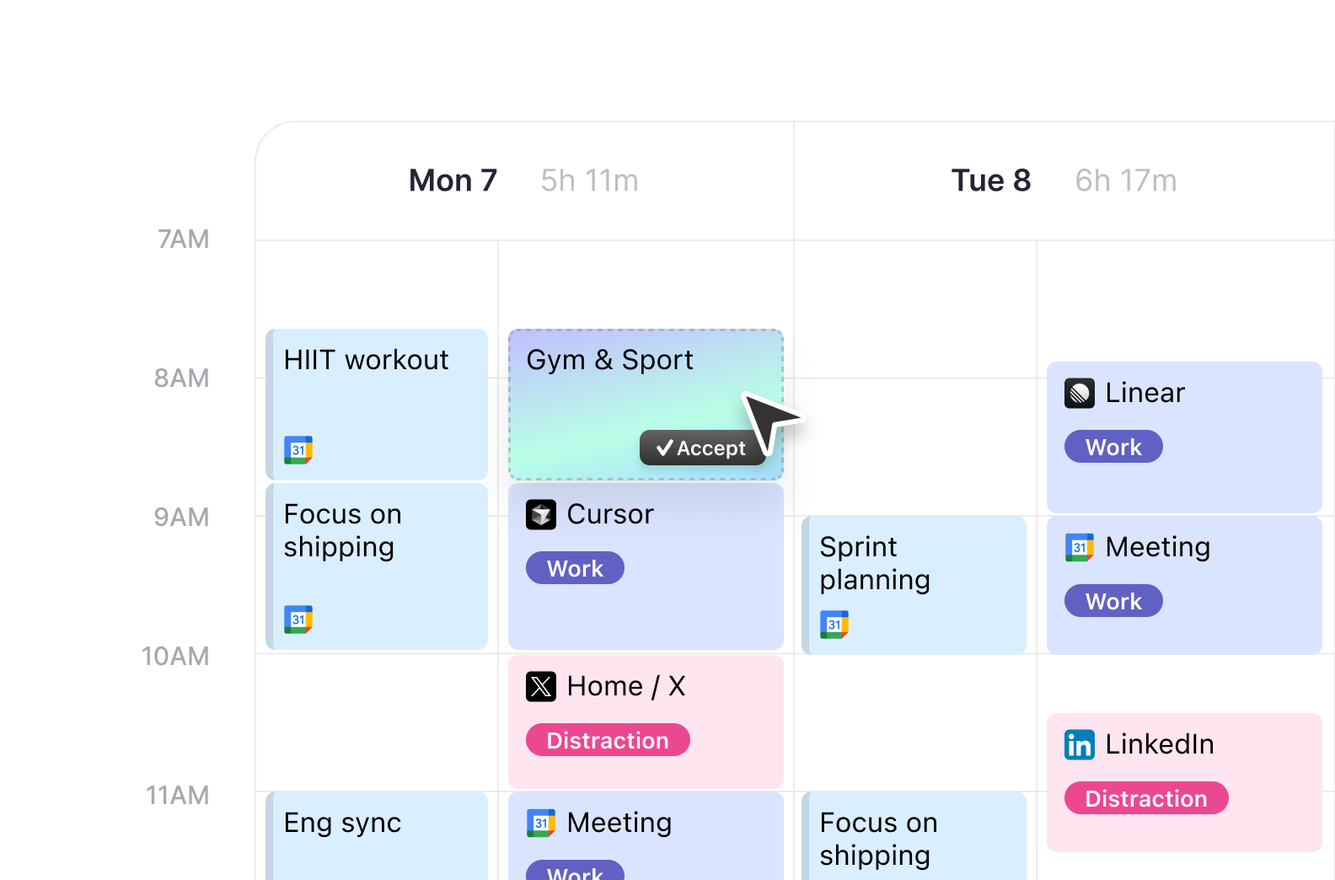
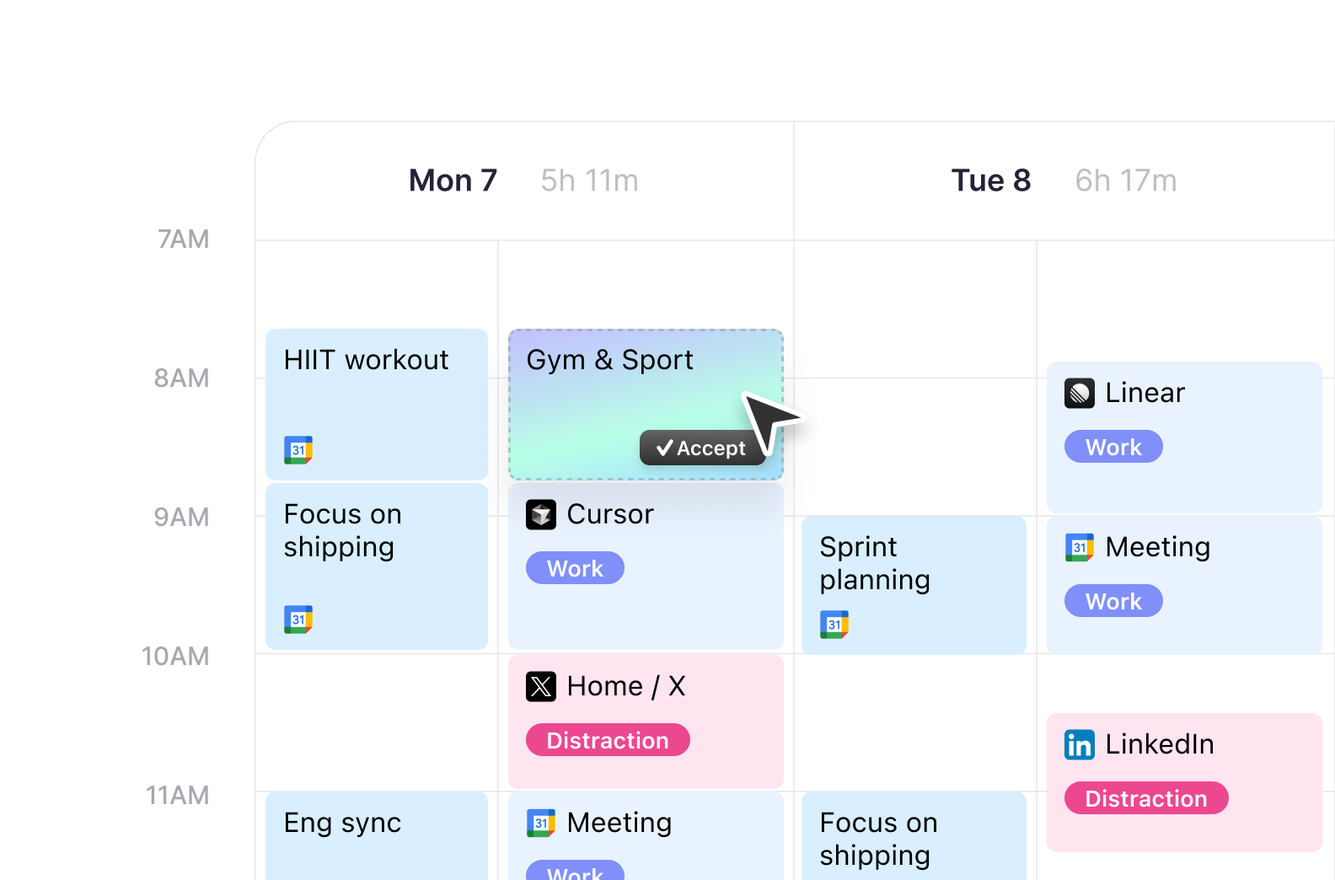
style: update colors in showcase and time frames, adjust layout in features section

diff --git a/nextjs-client/modules/home/showcase-section/apps-frame.tsx b/nextjs-client/modules/home/showcase-section/apps-frame.tsx
@@ -41,7 +41,7 @@ export const AppsFrame = (props: React.SVGProps<SVGSVGElement>) => (
         d="M96.08 22.5h-1.057a2.196 2.196 0 0 0-.89-1.38 2.385 2.385 0 0 0-.73-.359 2.908 2.908 0 0 0-.835-.119c-.528 0-1.007.134-1.436.4-.426.268-.766.661-1.018 1.181-.25.52-.375 1.158-.375 1.913 0 .756.125 1.394.375 1.914.252.52.592.913 1.018 1.18.43.267.908.4 1.436.4.29 0 .568-.04.835-.119.267-.08.51-.197.73-.353a2.245 2.245 0 0 0 .89-1.385h1.056a3.52 3.52 0 0 1-.434 1.197 3.273 3.273 0 0 1-1.837 1.458c-.386.127-.8.191-1.24.191-.744 0-1.406-.181-1.986-.545-.58-.364-1.035-.88-1.367-1.551-.333-.67-.5-1.466-.5-2.387 0-.92.167-1.715.5-2.386.332-.67.788-1.188 1.367-1.551.58-.364 1.242-.546 1.986-.546.44 0 .854.064 1.24.192.39.128.74.316 1.053.563.312.244.574.542.784.895.21.349.355.748.434 1.197zm5.696 3.324v-3.87h1.006V28.5h-1.006v-1.108h-.068a2.152 2.152 0 0 1-.716.848c-.324.23-.733.345-1.227.345-.41 0-.773-.09-1.091-.268a1.88 1.88 0 0 1-.75-.818c-.182-.367-.273-.828-.273-1.385v-4.16h1.006v4.091c0 .478.133.858.4 1.142.27.285.614.427 1.031.427.25 0 .505-.064.763-.192.262-.128.48-.324.656-.588.179-.264.269-.601.269-1.01zm2.848 2.676v-6.546h.971v.99h.068c.12-.325.336-.587.648-.79a1.908 1.908 0 0 1 1.057-.302c.074 0 .166.002.277.005a3.7 3.7 0 0 1 .251.012v1.023a2.968 2.968 0 0 0-.234-.038 2.304 2.304 0 0 0-.379-.03c-.319 0-.603.067-.853.2a1.47 1.47 0 0 0-.801 1.334V28.5h-1.005zm9.101-5.08l-.904.256a1.65 1.65 0 0 0-.251-.439 1.223 1.223 0 0 0-.443-.358c-.188-.094-.428-.14-.72-.14-.401 0-.735.092-1.002.277-.264.181-.396.413-.396.694 0 .25.091.448.273.593.181.144.466.265.852.362l.971.238c.586.143 1.022.36 1.309.652.287.29.43.664.43 1.121 0 .375-.108.71-.324 1.006a2.145 2.145 0 0 1-.895.699c-.383.17-.829.255-1.338.255-.667 0-1.22-.145-1.657-.434-.438-.29-.715-.713-.831-1.27l.954-.239c.091.352.263.617.516.793.256.176.589.264 1.001.264.469 0 .841-.1 1.117-.298.278-.202.417-.444.417-.725a.761.761 0 0 0-.238-.57c-.159-.157-.404-.273-.733-.35l-1.091-.256c-.6-.142-1.04-.362-1.321-.66-.279-.301-.418-.678-.418-1.13 0-.369.104-.696.311-.98.211-.284.496-.507.857-.669a3.004 3.004 0 0 1 1.236-.243c.647 0 1.156.142 1.525.427.372.284.637.659.793 1.125zm4.292 5.216c-.591 0-1.109-.14-1.555-.421a2.861 2.861 0 0 1-1.04-1.18c-.247-.507-.371-1.098-.371-1.774 0-.681.124-1.277.371-1.785.25-.509.596-.904 1.04-1.185.446-.281.964-.422 1.555-.422s1.108.14 1.551.422a2.82 2.82 0 0 1 1.04 1.185c.25.508.375 1.104.375 1.785 0 .677-.125 1.267-.375 1.773-.247.506-.594.9-1.04 1.18-.443.282-.96.422-1.551.422zm0-.903c.449 0 .818-.115 1.108-.345.29-.23.504-.533.643-.908.14-.375.209-.781.209-1.219 0-.437-.069-.845-.209-1.223a2.056 2.056 0 0 0-.643-.916c-.29-.233-.659-.35-1.108-.35-.449 0-.818.117-1.108.35-.29.233-.504.538-.643.916-.14.378-.209.786-.209 1.223 0 .438.069.844.209 1.22.139.374.353.677.643.907.29.23.659.345 1.108.345zm4.501.767v-6.546h.972v.99h.068c.119-.325.335-.587.648-.79a1.903 1.903 0 0 1 1.056-.302c.074 0 .167.002.277.005.111.002.195.007.252.012v1.023a2.938 2.938 0 0 0-.235-.038 2.295 2.295 0 0 0-.379-.03 1.78 1.78 0 0 0-.852.2 1.47 1.47 0 0 0-.801 1.334V28.5h-1.006zM258.852 28.62c-.562 0-1.064-.097-1.504-.29a2.582 2.582 0 0 1-1.044-.806 2.165 2.165 0 0 1-.418-1.206h1.074c.023.281.12.524.29.729.17.202.393.358.669.469.276.11.581.166.916.166.375 0 .708-.066.997-.196.29-.13.517-.313.682-.546.165-.233.247-.503.247-.81a1.52 1.52 0 0 0-.238-.847 1.579 1.579 0 0 0-.699-.58c-.307-.14-.682-.209-1.125-.209H258v-.937h.699c.346 0 .65-.063.912-.188.264-.125.47-.3.618-.528.15-.227.226-.494.226-.801 0-.296-.066-.553-.196-.771a1.347 1.347 0 0 0-.554-.512 1.796 1.796 0 0 0-.836-.183 2.2 2.2 0 0 0-.852.166c-.264.108-.48.266-.648.473a1.233 1.233 0 0 0-.272.741h-1.023c.017-.457.155-.857.413-1.201a2.61 2.61 0 0 1 1.014-.81c.421-.193.883-.29 1.385-.29.54 0 1.003.11 1.39.329.386.215.683.501.89.856.208.355.311.739.311 1.15 0 .492-.129.911-.388 1.258a1.96 1.96 0 0 1-1.044.72v.068c.552.091.982.325 1.292.703.309.375.464.84.464 1.394 0 .474-.129.9-.388 1.278a2.63 2.63 0 0 1-1.048.887c-.443.215-.947.323-1.513.323zm5.715-4.058V28.5h-1.006v-8.727h1.006v3.204h.085c.153-.338.384-.606.69-.805.31-.202.722-.303 1.236-.303.446 0 .837.09 1.172.269.335.176.595.447.78.814.187.363.281.826.281 1.389V28.5h-1.006v-4.09c0-.52-.135-.923-.404-1.207-.267-.287-.638-.43-1.113-.43-.329 0-.625.07-.886.209-.259.139-.463.342-.614.609-.147.267-.221.59-.221.971zm9.442 3.938v-.767l2.881-3.154c.338-.369.616-.69.835-.963.219-.275.38-.534.486-.775.108-.244.162-.5.162-.767 0-.307-.074-.573-.222-.797a1.439 1.439 0 0 0-.597-.52 1.934 1.934 0 0 0-.852-.183c-.335 0-.628.07-.878.209a1.435 1.435 0 0 0-.575.575c-.134.247-.2.537-.2.87h-1.006c0-.512.118-.961.354-1.347.235-.387.556-.688.963-.904a2.903 2.903 0 0 1 1.376-.324c.512 0 .965.108 1.36.324.394.216.704.507.929.874.224.366.336.774.336 1.223 0 .32-.058.635-.175.942-.113.304-.312.643-.596 1.018-.281.372-.672.827-1.172 1.364l-1.96 2.096v.069h4.057v.937h-5.506zm10.163.12a3.267 3.267 0 0 1-1.074-.205 2.576 2.576 0 0 1-.98-.66c-.295-.313-.532-.735-.711-1.266-.179-.535-.269-1.205-.269-2.012 0-.773.073-1.457.217-2.054.145-.6.356-1.103.631-1.512.276-.412.608-.725.997-.938a2.73 2.73 0 0 1 1.326-.32c.488 0 .923.098 1.304.294.383.194.696.463.937.81.242.347.398.746.469 1.197h-1.04a1.933 1.933 0 0 0-.562-.975c-.279-.259-.648-.388-1.108-.388-.677 0-1.209.294-1.598.882-.387.588-.581 1.413-.584 2.476h.068a2.557 2.557 0 0 1 2.148-1.16c.5 0 .957.126 1.372.376.415.247.747.59.997 1.027.25.434.375.933.375 1.495 0 .54-.121 1.035-.362 1.483a2.76 2.76 0 0 1-1.019 1.066c-.434.261-.946.389-1.534.383zm0-.938c.358 0 .679-.09.963-.269.287-.179.513-.419.678-.72.167-.301.251-.636.251-1.006 0-.36-.081-.688-.243-.984a1.852 1.852 0 0 0-.66-.712 1.75 1.75 0 0 0-.955-.264c-.27 0-.521.054-.754.162-.233.105-.437.25-.614.435a2.115 2.115 0 0 0-.409.635 2.02 2.02 0 0 0 .767 2.446c.287.184.613.277.976.277zm4.608.818v-6.546h.971v1.023h.086c.136-.35.356-.62.66-.814.304-.196.669-.294 1.095-.294.432 0 .792.098 1.078.294.29.194.516.465.678.814h.068a1.91 1.91 0 0 1 .754-.805c.336-.202.738-.303 1.206-.303.586 0 1.064.184 1.436.55.373.364.559.93.559 1.7V28.5h-1.006v-4.38c0-.484-.132-.829-.396-1.036a1.468 1.468 0 0 0-.933-.311c-.461 0-.817.139-1.07.417-.253.276-.379.625-.379 1.049V28.5h-1.023v-4.483c0-.372-.121-.672-.362-.9-.242-.23-.553-.344-.934-.344-.261 0-.505.07-.732.209-.225.139-.407.332-.546.58a1.715 1.715 0 0 0-.204.847V28.5h-1.006z"
         fill="#242437"
       />
-      <rect x={64} y={36} width={157} height={5} rx={2.5} fill="#6161C3" />
+      <rect x={64} y={36} width={157} height={5} rx={2.5} fill="#57A3FF" />
       <path
         d="M56 57a4 4 0 0 1 4-4h243a4 4 0 0 1 4 4v33a4 4 0 0 1-4 4H60a4 4 0 0 1-4-4V57z"
         fill="#fff"
@@ -57,7 +57,7 @@ export const AppsFrame = (props: React.SVGProps<SVGSVGElement>) => (
         d="M89.057 73.5v-8.727h2.949c.681 0 1.241.116 1.679.35.437.23.761.546.971.95.21.403.316.862.316 1.376 0 .514-.105.97-.316 1.368-.21.398-.532.71-.967.937-.435.225-.99.337-1.666.337h-2.387v-.955h2.353c.465 0 .84-.068 1.125-.204.287-.136.494-.33.622-.58.13-.253.196-.554.196-.903 0-.35-.066-.655-.196-.916a1.336 1.336 0 0 0-.627-.605c-.287-.145-.666-.218-1.137-.218h-1.858v7.79h-1.057zm4.108-3.92l2.147 3.92h-1.227l-2.113-3.92h1.193zm6.105 4.056c-.63 0-1.174-.139-1.632-.417a2.803 2.803 0 0 1-1.052-1.176c-.245-.506-.367-1.094-.367-1.765 0-.67.122-1.261.367-1.772a2.89 2.89 0 0 1 1.03-1.202c.444-.29.961-.435 1.552-.435.34 0 .677.057 1.01.17.332.114.635.3.908.555.272.253.49.588.652 1.005.162.418.242.932.242 1.543v.426h-5.045v-.87h4.023c0-.368-.074-.698-.222-.988a1.67 1.67 0 0 0-.622-.686 1.743 1.743 0 0 0-.946-.251c-.4 0-.747.1-1.04.298-.29.196-.513.452-.669.767a2.253 2.253 0 0 0-.234 1.014v.58c0 .494.085.913.256 1.257.173.34.413.6.72.78.306.176.663.264 1.07.264.263 0 .502-.037.715-.11a1.53 1.53 0 0 0 .558-.342 1.55 1.55 0 0 0 .363-.57l.971.272c-.102.33-.274.62-.515.87a2.52 2.52 0 0 1-.895.579 3.32 3.32 0 0 1-1.198.204zm7.99-4.346v.937h-3.818v-.937h3.818zm4.429 4.346c-.614 0-1.142-.144-1.585-.434a2.837 2.837 0 0 1-1.023-1.198c-.239-.508-.358-1.09-.358-1.743 0-.664.122-1.251.366-1.76a2.9 2.9 0 0 1 1.032-1.197c.443-.29.96-.435 1.551-.435.46 0 .875.085 1.244.256.37.17.672.41.908.716.236.307.382.665.439 1.074h-1.006a1.562 1.562 0 0 0-.511-.793c-.262-.233-.614-.35-1.057-.35-.392 0-.736.103-1.031.307a1.99 1.99 0 0 0-.686.857c-.162.367-.243.797-.243 1.291 0 .506.079.946.238 1.321.162.375.39.666.682.874.296.207.642.311 1.04.311.261 0 .499-.046.712-.136a1.47 1.47 0 0 0 .541-.392c.147-.17.253-.376.315-.614h1.006a2.336 2.336 0 0 1-.422 1.044 2.363 2.363 0 0 1-.882.733c-.364.179-.787.268-1.27.268zm5.97.017c-.415 0-.791-.078-1.129-.234a1.941 1.941 0 0 1-.806-.686c-.198-.301-.298-.665-.298-1.091 0-.375.074-.679.222-.912a1.56 1.56 0 0 1 .592-.554c.247-.133.52-.233.818-.298.301-.068.604-.122.908-.162.398-.051.72-.09.967-.115.25-.029.432-.075.546-.14.116-.066.174-.18.174-.342v-.034c0-.42-.115-.747-.345-.98-.227-.233-.572-.35-1.035-.35-.48 0-.857.106-1.13.316-.272.21-.464.435-.575.673l-.954-.34c.17-.398.397-.708.681-.93.287-.224.6-.38.938-.468.341-.091.676-.137 1.006-.137.21 0 .451.026.724.077.276.048.541.15.797.303.258.153.473.385.643.694.171.31.256.725.256 1.245V73.5h-1.006v-.886h-.051a1.768 1.768 0 0 1-.341.456c-.159.162-.37.3-.635.413-.264.114-.586.17-.967.17zm.153-.903c.398 0 .733-.078 1.006-.234a1.59 1.59 0 0 0 .835-1.385v-.92c-.042.05-.136.097-.281.14-.142.04-.307.075-.494.106a22.717 22.717 0 0 1-.963.128c-.262.034-.506.09-.733.166a1.267 1.267 0 0 0-.546.337c-.136.148-.204.35-.204.605 0 .35.129.614.388.793.261.176.592.264.992.264zm7.529-5.796v.853h-3.392v-.853h3.392zm-2.403-1.568h1.006v6.239c0 .284.041.497.123.64.085.138.193.232.324.28.134.046.274.069.422.069.111 0 .202-.006.273-.017l.17-.034.205.903a2.096 2.096 0 0 1-.286.077 2.1 2.1 0 0 1-.464.042c-.285 0-.563-.06-.836-.183a1.658 1.658 0 0 1-.673-.558c-.176-.25-.264-.566-.264-.946v-6.512zm6.59 8.25c-.631 0-1.175-.139-1.632-.417a2.807 2.807 0 0 1-1.053-1.176c-.244-.506-.366-1.094-.366-1.765 0-.67.122-1.261.366-1.772a2.894 2.894 0 0 1 1.032-1.202c.443-.29.96-.435 1.551-.435.341 0 .677.057 1.01.17.332.114.635.3.907.555.273.253.49.588.652 1.005.162.418.243.932.243 1.543v.426h-5.045v-.87h4.023c0-.368-.074-.698-.222-.988a1.67 1.67 0 0 0-.622-.686 1.744 1.744 0 0 0-.946-.251c-.401 0-.747.1-1.04.298-.29.196-.513.452-.669.767a2.256 2.256 0 0 0-.234 1.014v.58c0 .494.085.913.255 1.257.174.34.414.6.72.78.307.176.664.264 1.07.264.264 0 .503-.037.716-.11.216-.078.402-.191.558-.342.156-.153.277-.344.362-.57l.972.272c-.102.33-.274.62-.516.87-.241.246-.539.44-.895.579a3.316 3.316 0 0 1-1.197.204zm6.882 2.455c-.486 0-.903-.063-1.253-.188a2.661 2.661 0 0 1-.873-.485 2.652 2.652 0 0 1-.55-.64l.801-.562c.091.12.206.256.345.409.14.156.33.291.571.405.245.116.564.174.959.174.529 0 .965-.127 1.308-.383.344-.256.516-.656.516-1.202v-1.33h-.085a5.34 5.34 0 0 1-.316.444 1.779 1.779 0 0 1-.579.464c-.25.134-.588.2-1.014.2a2.734 2.734 0 0 1-1.424-.374 2.63 2.63 0 0 1-.992-1.091c-.242-.478-.363-1.057-.363-1.739 0-.67.118-1.254.354-1.751.236-.5.564-.887.984-1.16.421-.275.907-.413 1.458-.413.426 0 .764.071 1.014.213.253.14.446.299.579.478.137.176.242.32.316.434h.102v-1.04h.972v6.734c0 .562-.128 1.02-.384 1.372a2.185 2.185 0 0 1-1.023.78c-.426.167-.9.25-1.423.25zm-.034-3.597c.403 0 .744-.092 1.023-.277.278-.184.49-.45.635-.796.145-.347.217-.762.217-1.245 0-.472-.071-.888-.213-1.248a1.87 1.87 0 0 0-.631-.849c-.278-.204-.622-.306-1.031-.306-.426 0-.781.108-1.065.324a1.966 1.966 0 0 0-.635.869 3.365 3.365 0 0 0-.209 1.21c0 .455.071.857.213 1.206.145.347.358.62.639.818.284.196.637.294 1.057.294zm7.364 1.142c-.591 0-1.11-.14-1.556-.421a2.866 2.866 0 0 1-1.039-1.18c-.248-.507-.371-1.097-.371-1.774 0-.681.123-1.277.371-1.785a2.86 2.86 0 0 1 1.039-1.185c.446-.281.965-.422 1.556-.422.591 0 1.108.14 1.551.422.446.281.792.676 1.04 1.185.25.508.375 1.103.375 1.785 0 .677-.125 1.267-.375 1.773-.248.506-.594.9-1.04 1.18-.443.282-.96.422-1.551.422zm0-.903c.449 0 .818-.115 1.108-.345.289-.23.504-.533.643-.908a3.48 3.48 0 0 0 .209-1.219c0-.437-.07-.845-.209-1.223a2.064 2.064 0 0 0-.643-.916c-.29-.233-.659-.35-1.108-.35-.449 0-.818.117-1.108.35-.29.233-.505.538-.644.916a3.515 3.515 0 0 0-.209 1.223c0 .438.07.844.209 1.22.139.374.354.677.644.907.29.23.659.345 1.108.345zm4.501.767v-6.546h.971v.99h.069c.119-.325.335-.588.647-.79a1.908 1.908 0 0 1 1.057-.302c.074 0 .166.002.277.004.111.003.195.008.251.013v1.023a2.968 2.968 0 0 0-.234-.038 2.304 2.304 0 0 0-.379-.03 1.78 1.78 0 0 0-.852.2c-.248.13-.444.313-.588.546-.143.23-.214.493-.214.788V73.5h-1.005zm4.465 0v-6.546h1.005V73.5h-1.005zm.511-7.636a.715.715 0 0 1-.507-.2.645.645 0 0 1-.209-.482c0-.188.07-.348.209-.482a.715.715 0 0 1 .507-.2.7.7 0 0 1 .503.2.637.637 0 0 1 .213.482.638.638 0 0 1-.213.481.7.7 0 0 1-.503.2zm2.149 7.636v-.767l3.716-4.773v-.068h-3.597v-.938h4.892v.802l-3.614 4.738v.069h3.733v.937h-5.13zm8.606.153c-.415 0-.792-.078-1.13-.234a1.939 1.939 0 0 1-.805-.686c-.199-.301-.298-.665-.298-1.091 0-.375.074-.679.221-.912.148-.236.345-.42.593-.554.247-.133.519-.233.818-.298.301-.068.603-.122.907-.162.398-.051.721-.09.968-.115.25-.029.432-.075.545-.14.117-.066.175-.18.175-.342v-.034c0-.42-.115-.747-.345-.98-.228-.233-.573-.35-1.036-.35-.48 0-.856.106-1.129.316-.273.21-.465.435-.575.673l-.955-.34c.171-.398.398-.708.682-.93.287-.224.599-.38.937-.468.341-.091.677-.137 1.006-.137.21 0 .452.026.725.077.275.048.541.15.796.303.259.153.473.385.644.694.17.31.256.725.256 1.245V73.5h-1.006v-.886h-.051a1.768 1.768 0 0 1-.341.456 1.97 1.97 0 0 1-.635.413c-.264.114-.587.17-.967.17zm.153-.903c.398 0 .733-.078 1.006-.234a1.597 1.597 0 0 0 .835-1.385v-.92c-.043.05-.136.097-.281.14-.142.04-.307.075-.495.106a22.013 22.013 0 0 1-.963.128c-.261.034-.505.09-.733.166a1.263 1.263 0 0 0-.545.337c-.136.148-.205.35-.205.605 0 .35.13.614.388.793.261.176.592.264.993.264zm7.529-5.796v.853h-3.392v-.853h3.392zm-2.404-1.568h1.006v6.239c0 .284.041.497.124.64a.64.64 0 0 0 .323.28c.134.046.275.069.422.069.111 0 .202-.006.273-.017l.171-.034.204.903a2.035 2.035 0 0 1-.285.077 2.11 2.11 0 0 1-.465.042c-.284 0-.562-.06-.835-.183a1.658 1.658 0 0 1-.673-.558c-.177-.25-.265-.566-.265-.946v-6.512zm3.917 8.114v-6.546h1.005V73.5h-1.005zm.511-7.636a.715.715 0 0 1-.507-.2.645.645 0 0 1-.209-.482c0-.188.07-.348.209-.482a.715.715 0 0 1 .507-.2.7.7 0 0 1 .503.2.637.637 0 0 1 .213.482.638.638 0 0 1-.213.481.7.7 0 0 1-.503.2zm4.995 7.772c-.591 0-1.109-.14-1.555-.421a2.868 2.868 0 0 1-1.04-1.18c-.247-.507-.371-1.097-.371-1.774 0-.681.124-1.277.371-1.785.25-.509.597-.904 1.04-1.185.446-.281.964-.422 1.555-.422s1.108.14 1.551.422a2.82 2.82 0 0 1 1.04 1.185c.25.508.375 1.103.375 1.785 0 .677-.125 1.267-.375 1.773-.247.506-.594.9-1.04 1.18-.443.282-.96.422-1.551.422zm0-.903c.449 0 .818-.115 1.108-.345.29-.23.505-.533.644-.908a3.48 3.48 0 0 0 .209-1.219c0-.437-.07-.845-.209-1.223a2.058 2.058 0 0 0-.644-.916c-.29-.233-.659-.35-1.108-.35-.449 0-.818.117-1.108.35a2.064 2.064 0 0 0-.643.916 3.515 3.515 0 0 0-.209 1.223c0 .438.07.844.209 1.22.139.374.354.677.643.907.29.23.659.345 1.108.345zm5.507-3.17V73.5h-1.006v-6.546h.972v1.023h.085c.154-.332.387-.6.699-.8.313-.205.716-.308 1.21-.308.443 0 .831.091 1.164.273.332.179.591.452.775.818.185.364.277.824.277 1.38v4.16h-1.006v-4.09c0-.515-.133-.916-.4-1.203-.267-.29-.634-.434-1.1-.434-.321 0-.607.07-.86.209-.25.139-.448.342-.593.609-.145.267-.217.59-.217.972zm12.048 4.073c-.591 0-1.109-.14-1.555-.421a2.861 2.861 0 0 1-1.04-1.18c-.247-.507-.371-1.097-.371-1.774 0-.681.124-1.277.371-1.785.25-.509.596-.904 1.04-1.185.446-.281.964-.422 1.555-.422s1.108.14 1.551.422a2.82 2.82 0 0 1 1.04 1.185c.25.508.375 1.103.375 1.785 0 .677-.125 1.267-.375 1.773-.247.506-.594.9-1.04 1.18-.443.282-.96.422-1.551.422zm0-.903c.449 0 .818-.115 1.108-.345.29-.23.504-.533.643-.908.14-.375.209-.781.209-1.219 0-.437-.069-.845-.209-1.223a2.056 2.056 0 0 0-.643-.916c-.29-.233-.659-.35-1.108-.35-.449 0-.818.117-1.108.35-.29.233-.504.538-.643.916-.14.378-.209.786-.209 1.223 0 .438.069.844.209 1.22.139.374.353.677.643.907.29.23.659.345 1.108.345zm4.501 3.221v-9h.972v1.04h.119c.074-.113.176-.258.307-.434.133-.18.324-.338.571-.478.25-.142.588-.213 1.014-.213.551 0 1.037.138 1.457.414.421.275.749.666.985 1.171.236.506.353 1.103.353 1.79 0 .694-.117 1.294-.353 1.803-.236.506-.563.898-.98 1.176a2.563 2.563 0 0 1-1.445.413c-.42 0-.757-.07-1.01-.208a1.879 1.879 0 0 1-.584-.482 6.602 6.602 0 0 1-.315-.452h-.085v3.46h-1.006zm.989-5.727c0 .495.072.93.217 1.308.145.376.357.67.635.883.278.21.619.315 1.023.315.42 0 .771-.11 1.052-.332.284-.225.497-.526.639-.904.145-.38.218-.804.218-1.27 0-.46-.071-.875-.213-1.244a1.922 1.922 0 0 0-.635-.882c-.281-.219-.635-.328-1.061-.328-.409 0-.753.103-1.032.31a1.869 1.869 0 0 0-.63.862c-.142.366-.213.794-.213 1.282zm9.17-3.273v.853h-3.392v-.853h3.392zm-2.403-1.568h1.005v6.239c0 .284.042.497.124.64.085.138.193.232.324.28.133.046.274.069.422.069.111 0 .201-.006.272-.017l.171-.034.204.903a2.035 2.035 0 0 1-.285.077 2.104 2.104 0 0 1-.465.042c-.284 0-.562-.06-.835-.183a1.658 1.658 0 0 1-.673-.558c-.176-.25-.264-.566-.264-.946v-6.512zm3.916 8.114v-6.546h1.006V73.5h-1.006zm.511-7.636a.715.715 0 0 1-.507-.2.645.645 0 0 1-.209-.482c0-.188.07-.348.209-.482a.715.715 0 0 1 .507-.2.7.7 0 0 1 .503.2.637.637 0 0 1 .213.482.638.638 0 0 1-.213.481.7.7 0 0 1-.503.2zm4.996 7.772c-.591 0-1.11-.14-1.556-.421a2.868 2.868 0 0 1-1.04-1.18c-.247-.507-.37-1.097-.37-1.774 0-.681.123-1.277.37-1.785.25-.509.597-.904 1.04-1.185.446-.281.965-.422 1.556-.422.591 0 1.108.14 1.551.422.446.281.792.676 1.04 1.185.25.508.375 1.103.375 1.785 0 .677-.125 1.267-.375 1.773-.248.506-.594.9-1.04 1.18-.443.282-.96.422-1.551.422zm0-.903c.449 0 .818-.115 1.108-.345.289-.23.504-.533.643-.908a3.48 3.48 0 0 0 .209-1.219c0-.437-.07-.845-.209-1.223a2.064 2.064 0 0 0-.643-.916c-.29-.233-.659-.35-1.108-.35-.449 0-.819.117-1.108.35-.29.233-.505.538-.644.916a3.515 3.515 0 0 0-.209 1.223c0 .438.07.844.209 1.22.139.374.354.677.644.907.289.23.659.345 1.108.345zm5.506-3.17V73.5h-1.005v-6.546h.971v1.023h.086c.153-.332.386-.6.698-.8.313-.205.716-.308 1.211-.308.443 0 .831.091 1.163.273.332.179.591.452.776.818.184.364.277.824.277 1.38v4.16h-1.006v-4.09c0-.515-.134-.916-.401-1.203-.267-.29-.633-.434-1.099-.434-.321 0-.608.07-.861.209-.25.139-.447.342-.592.609-.145.267-.218.59-.218.972zm10.651-1.142l-.904.255a1.677 1.677 0 0 0-.251-.439 1.223 1.223 0 0 0-.443-.358c-.188-.094-.428-.14-.721-.14-.4 0-.734.092-1.001.277-.264.181-.396.413-.396.694 0 .25.091.448.272.593.182.144.466.265.853.362l.971.238c.586.142 1.022.36 1.309.652.286.29.43.664.43 1.121 0 .375-.108.71-.324 1.006a2.145 2.145 0 0 1-.895.699c-.383.17-.829.255-1.338.255-.667 0-1.22-.144-1.658-.434-.437-.29-.714-.713-.831-1.27l.955-.239c.091.353.263.617.516.793.255.176.589.264 1.001.264.469 0 .841-.1 1.117-.298.278-.202.417-.444.417-.725a.761.761 0 0 0-.238-.57c-.16-.157-.404-.273-.733-.35l-1.091-.256c-.6-.142-1.04-.362-1.321-.66-.279-.302-.418-.678-.418-1.13 0-.369.104-.696.311-.98.21-.284.496-.507.857-.669a3.003 3.003 0 0 1 1.235-.243c.648 0 1.157.142 1.526.427.372.283.636.658.793 1.124zM260.972 64.773V73.5h-1.057v-7.62h-.051l-2.131 1.416v-1.074l2.182-1.45h1.057zm3.532 4.79V73.5h-1.005v-8.727h1.005v3.204h.085c.154-.338.384-.606.691-.805.309-.202.721-.303 1.236-.303.446 0 .836.09 1.172.269.335.176.595.447.779.814.188.363.282.826.282 1.389V73.5h-1.006v-4.09c0-.52-.135-.923-.405-1.207-.267-.287-.638-.43-1.112-.43-.33 0-.625.07-.887.209-.258.139-.463.342-.613.609-.148.267-.222.59-.222.972zm12.391 4.056c-.562 0-1.064-.096-1.504-.29a2.569 2.569 0 0 1-1.044-.805 2.165 2.165 0 0 1-.418-1.206h1.074c.023.281.12.524.29.729.17.202.393.358.669.469.276.11.581.166.916.166.375 0 .708-.066.997-.196.29-.13.517-.313.682-.546.165-.233.247-.502.247-.81a1.52 1.52 0 0 0-.238-.847 1.579 1.579 0 0 0-.699-.58c-.307-.14-.682-.209-1.125-.209h-.699v-.937h.699c.346 0 .65-.063.912-.188.264-.125.47-.3.618-.528.15-.227.226-.494.226-.801 0-.296-.066-.553-.197-.772a1.338 1.338 0 0 0-.553-.51 1.796 1.796 0 0 0-.836-.184 2.2 2.2 0 0 0-.852.166c-.264.108-.48.266-.648.473a1.233 1.233 0 0 0-.272.742h-1.023c.017-.458.155-.858.413-1.202a2.61 2.61 0 0 1 1.014-.81c.421-.193.882-.29 1.385-.29.54 0 1.003.11 1.39.328.386.216.683.502.89.857.208.355.311.739.311 1.15 0 .492-.129.911-.388 1.258a1.96 1.96 0 0 1-1.044.72v.068c.552.091.982.325 1.292.703.309.375.464.84.464 1.394 0 .474-.129.9-.388 1.278a2.63 2.63 0 0 1-1.048.886c-.443.216-.947.324-1.513.324zm4.692-.119v-.767l2.881-3.154c.338-.369.616-.69.835-.962.219-.276.381-.535.486-.776.108-.244.162-.5.162-.767 0-.307-.074-.573-.222-.797a1.439 1.439 0 0 0-.597-.52 1.928 1.928 0 0 0-.852-.183c-.335 0-.628.07-.878.209a1.435 1.435 0 0 0-.575.575c-.133.247-.2.537-.2.87h-1.006c0-.512.118-.961.354-1.347a2.46 2.46 0 0 1 .963-.904 2.903 2.903 0 0 1 1.376-.324c.512 0 .965.108 1.36.324.395.216.704.507.929.874.224.366.336.774.336 1.223 0 .32-.058.635-.174.942-.114.304-.313.643-.597 1.018-.281.372-.672.827-1.172 1.364l-1.96 2.096v.069h4.057v.937h-5.506zm7.283 0v-6.546h.971v1.023h.085c.137-.35.357-.62.661-.814.304-.196.669-.294 1.095-.294.432 0 .791.098 1.078.294.29.194.516.465.678.814h.068a1.91 1.91 0 0 1 .754-.805c.336-.202.738-.303 1.206-.303.585 0 1.064.184 1.436.55.373.364.559.93.559 1.7V73.5h-1.006v-4.38c0-.484-.132-.829-.396-1.036a1.47 1.47 0 0 0-.934-.311c-.46 0-.816.139-1.069.417-.253.276-.38.625-.38 1.049V73.5h-1.022v-4.483c0-.372-.121-.672-.362-.9-.242-.23-.553-.344-.934-.344-.261 0-.505.07-.733.209-.224.139-.406.332-.545.58a1.715 1.715 0 0 0-.205.847V73.5h-1.005z"
         fill="#242437"
       />
-      <rect x={64} y={81} width={89} height={5} rx={2.5} fill="#6161C3" />
+      <rect x={64} y={81} width={89} height={5} rx={2.5} fill="#57A3FF" />
       <path
         d="M56 102a4 4 0 0 1 4-4h243a4 4 0 0 1 4 4v33a4 4 0 0 1-4 4H60a4 4 0 0 1-4-4v-33z"
         fill="#fff"
@@ -88,7 +88,7 @@ export const AppsFrame = (props: React.SVGProps<SVGSVGElement>) => (
         d="M95.023 112.5a3.07 3.07 0 0 0-.371-.771 2.385 2.385 0 0 0-.541-.588 2.266 2.266 0 0 0-.708-.371 2.826 2.826 0 0 0-.869-.128 2.59 2.59 0 0 0-1.41.401c-.424.267-.76.66-1.01 1.18-.25.52-.375 1.158-.375 1.913 0 .756.126 1.394.379 1.914s.595.913 1.027 1.18c.432.267.918.401 1.457.401.5 0 .94-.107 1.321-.32.384-.216.682-.52.895-.912.216-.395.324-.859.324-1.393l.324.068H92.84v-.938h3.324v.938c0 .719-.154 1.344-.46 1.875a3.184 3.184 0 0 1-1.262 1.236c-.534.289-1.147.434-1.84.434-.773 0-1.452-.181-2.038-.545-.582-.364-1.037-.881-1.363-1.551-.324-.671-.486-1.466-.486-2.387 0-.69.092-1.311.277-1.862a4.134 4.134 0 0 1 .793-1.415c.34-.389.744-.687 1.21-.895a3.747 3.747 0 0 1 1.538-.311c.46 0 .89.07 1.287.209a3.463 3.463 0 0 1 1.858 1.483c.21.347.355.732.435 1.155h-1.091zm5.475 6.136c-.591 0-1.11-.14-1.556-.422a2.861 2.861 0 0 1-1.04-1.18c-.247-.506-.37-1.097-.37-1.773 0-.681.123-1.277.37-1.785.25-.509.597-.904 1.04-1.185.446-.281.965-.422 1.556-.422.59 0 1.107.141 1.551.422.446.281.792.676 1.039 1.185.25.508.375 1.104.375 1.785 0 .676-.125 1.267-.375 1.773a2.82 2.82 0 0 1-1.039 1.18c-.444.282-.961.422-1.551.422zm0-.903c.448 0 .818-.115 1.107-.345.29-.23.505-.533.644-.908a3.48 3.48 0 0 0 .209-1.219c0-.437-.07-.845-.209-1.223a2.063 2.063 0 0 0-.644-.916c-.289-.233-.659-.349-1.107-.349-.449 0-.819.116-1.108.349-.29.233-.505.539-.644.916-.14.378-.209.786-.209 1.223 0 .438.07.844.21 1.219.138.375.353.678.643.908.29.23.659.345 1.108.345zm7.16.903c-.591 0-1.11-.14-1.556-.422a2.863 2.863 0 0 1-1.04-1.18c-.247-.506-.37-1.097-.37-1.773 0-.681.123-1.277.37-1.785.25-.509.597-.904 1.04-1.185.446-.281.965-.422 1.556-.422.591 0 1.108.141 1.551.422.446.281.792.676 1.04 1.185.25.508.375 1.104.375 1.785 0 .676-.125 1.267-.375 1.773a2.829 2.829 0 0 1-1.04 1.18c-.443.282-.96.422-1.551.422zm0-.903c.449 0 .818-.115 1.108-.345.289-.23.504-.533.643-.908a3.48 3.48 0 0 0 .209-1.219c0-.437-.07-.845-.209-1.223a2.07 2.07 0 0 0-.643-.916c-.29-.233-.659-.349-1.108-.349-.449 0-.819.116-1.108.349-.29.233-.505.539-.644.916a3.518 3.518 0 0 0-.209 1.223c0 .438.07.844.209 1.219.139.375.354.678.644.908.289.23.659.345 1.108.345zm7.143 3.358c-.486 0-.904-.063-1.253-.188a2.674 2.674 0 0 1-.874-.485 2.64 2.64 0 0 1-.549-.64l.801-.562c.091.119.206.256.345.409.139.156.329.291.571.405.244.116.564.175.959.175.528 0 .964-.128 1.308-.384.344-.256.516-.656.516-1.202v-1.329h-.086a5.312 5.312 0 0 1-.315.443 1.787 1.787 0 0 1-.579.464c-.25.134-.589.201-1.015.201a2.73 2.73 0 0 1-1.423-.375 2.628 2.628 0 0 1-.993-1.091c-.241-.477-.362-1.057-.362-1.739 0-.67.118-1.254.354-1.751.235-.5.564-.887.984-1.159.42-.276.906-.414 1.457-.414.427 0 .765.071 1.015.213.252.14.446.299.579.478.136.176.242.321.315.434h.103v-1.039h.971v6.733c0 .562-.128 1.019-.383 1.372a2.18 2.18 0 0 1-1.023.779c-.426.168-.9.252-1.423.252zm-.034-3.597c.403 0 .744-.092 1.022-.277.279-.184.49-.45.635-.797.145-.346.218-.761.218-1.244 0-.471-.071-.888-.213-1.248a1.872 1.872 0 0 0-.631-.848c-.278-.205-.622-.307-1.031-.307-.426 0-.782.108-1.066.324a1.966 1.966 0 0 0-.635.869 3.366 3.366 0 0 0-.208 1.21c0 .455.071.857.213 1.206.145.347.358.619.639.818.284.196.636.294 1.057.294zm5.71-7.721v8.727h-1.006v-8.727h1.006zm4.586 8.863c-.63 0-1.175-.139-1.632-.417a2.808 2.808 0 0 1-1.052-1.176c-.245-.506-.367-1.094-.367-1.765 0-.67.122-1.261.367-1.772.247-.515.59-.915 1.031-1.202.443-.29.96-.435 1.551-.435.341 0 .677.057 1.01.171.332.113.635.298.908.554.272.253.49.588.652 1.005.161.418.242.932.242 1.543v.426h-5.045v-.869h4.023c0-.369-.074-.699-.222-.989a1.67 1.67 0 0 0-.622-.686 1.746 1.746 0 0 0-.946-.251c-.401 0-.747.099-1.04.298a1.96 1.96 0 0 0-.669.767 2.254 2.254 0 0 0-.234 1.014v.58c0 .494.085.913.255 1.257.174.341.414.601.721.78.306.176.663.264 1.069.264.264 0 .503-.037.716-.111.216-.077.402-.19.558-.341a1.55 1.55 0 0 0 .363-.571l.971.273a2.158 2.158 0 0 1-.515.869 2.52 2.52 0 0 1-.895.58 3.33 3.33 0 0 1-1.198.204zm7.752-8.863h1.261l2.966 7.244h.102l2.966-7.244h1.261v8.727h-.988v-6.631h-.085l-2.728 6.631h-.954l-2.728-6.631h-.085v6.631h-.988v-8.727zm13.283 8.863c-.63 0-1.174-.139-1.632-.417a2.808 2.808 0 0 1-1.052-1.176c-.245-.506-.367-1.094-.367-1.765 0-.67.122-1.261.367-1.772a2.888 2.888 0 0 1 1.031-1.202c.443-.29.96-.435 1.551-.435.341 0 .678.057 1.01.171.332.113.635.298.908.554.272.253.49.588.652 1.005.162.418.243.932.243 1.543v.426h-5.046v-.869h4.023c0-.369-.074-.699-.222-.989a1.67 1.67 0 0 0-.622-.686 1.746 1.746 0 0 0-.946-.251c-.4 0-.747.099-1.04.298a1.976 1.976 0 0 0-.669.767 2.254 2.254 0 0 0-.234 1.014v.58c0 .494.085.913.256 1.257.173.341.413.601.72.78a2.11 2.11 0 0 0 1.069.264c.265 0 .503-.037.716-.111a1.54 1.54 0 0 0 .559-.341c.156-.153.277-.344.362-.571l.971.273a2.158 2.158 0 0 1-.515.869 2.52 2.52 0 0 1-.895.58 3.326 3.326 0 0 1-1.198.204zm6.985 0c-.631 0-1.175-.139-1.632-.417a2.803 2.803 0 0 1-1.053-1.176c-.244-.506-.366-1.094-.366-1.765 0-.67.122-1.261.366-1.772a2.888 2.888 0 0 1 1.031-1.202c.444-.29.961-.435 1.551-.435.341 0 .678.057 1.01.171.333.113.635.298.908.554.273.253.49.588.652 1.005.162.418.243.932.243 1.543v.426h-5.045v-.869h4.022c0-.369-.074-.699-.221-.989a1.673 1.673 0 0 0-.623-.686 1.746 1.746 0 0 0-.946-.251c-.4 0-.747.099-1.039.298a1.96 1.96 0 0 0-.669.767 2.242 2.242 0 0 0-.235 1.014v.58c0 .494.086.913.256 1.257.173.341.413.601.72.78.307.176.663.264 1.07.264.264 0 .503-.037.716-.111.216-.077.402-.19.558-.341.156-.153.277-.344.362-.571l.972.273a2.16 2.16 0 0 1-.516.869c-.241.247-.54.441-.895.58a3.325 3.325 0 0 1-1.197.204zm7.086-6.681v.852h-3.392v-.852h3.392zm-2.403-1.569h1.006v6.239c0 .284.041.497.123.639a.637.637 0 0 0 .324.281c.134.046.274.069.422.069.111 0 .202-.006.273-.017l.17-.035.205.904a2.2 2.2 0 0 1-.75.119c-.284 0-.563-.061-.836-.183a1.662 1.662 0 0 1-.673-.558c-.176-.25-.264-.566-.264-.946v-6.512zM276.631 118.619c-.5 0-.951-.099-1.351-.298a2.508 2.508 0 0 1-.963-.818 2.23 2.23 0 0 1-.397-1.185h1.023c.04.395.219.722.537.98a1.79 1.79 0 0 0 1.151.384c.358 0 .676-.084.954-.252a1.77 1.77 0 0 0 .661-.69c.162-.295.243-.629.243-1.001a2.04 2.04 0 0 0-.252-1.019 1.843 1.843 0 0 0-.682-.711 1.918 1.918 0 0 0-.993-.265 2.727 2.727 0 0 0-.822.124 2.277 2.277 0 0 0-.695.32l-.988-.12.528-4.295h4.534v.937h-3.647l-.307 2.574h.051a2.28 2.28 0 0 1 .673-.354c.27-.093.551-.14.844-.14a2.687 2.687 0 0 1 2.416 1.423c.242.44.362.943.362 1.509 0 .556-.125 1.054-.375 1.491a2.741 2.741 0 0 1-1.022 1.031c-.435.25-.929.375-1.483.375zm7.471 0a3.266 3.266 0 0 1-1.074-.204 2.569 2.569 0 0 1-.98-.661c-.296-.312-.533-.734-.712-1.265-.179-.534-.268-1.205-.268-2.012 0-.772.072-1.457.217-2.054.145-.599.355-1.103.631-1.512a2.84 2.84 0 0 1 .997-.938 2.73 2.73 0 0 1 1.325-.32c.489 0 .924.098 1.304.294.384.194.696.464.938.81.241.347.397.746.469 1.198h-1.04a1.922 1.922 0 0 0-.563-.976c-.278-.259-.647-.388-1.108-.388-.676 0-1.209.294-1.598.882-.386.588-.581 1.413-.584 2.476h.069a2.558 2.558 0 0 1 1.299-1.019c.267-.093.55-.14.848-.14.5 0 .958.125 1.373.375.414.247.747.589.997 1.027.25.434.375.933.375 1.496a3.07 3.07 0 0 1-.363 1.482 2.75 2.75 0 0 1-1.018 1.066c-.435.261-.946.389-1.534.383zm0-.937c.358 0 .679-.09.963-.269.287-.179.513-.419.678-.72.167-.301.251-.636.251-1.005 0-.361-.081-.689-.243-.985a1.862 1.862 0 0 0-.66-.712 1.751 1.751 0 0 0-.955-.264c-.27 0-.521.054-.754.162a1.94 1.94 0 0 0-.614.435c-.173.185-.31.396-.409.635a2.018 2.018 0 0 0 .767 2.446c.287.184.612.277.976.277zm4.608.818v-6.545h.971v1.022h.085c.137-.349.357-.62.661-.814.304-.196.669-.294 1.095-.294.432 0 .791.098 1.078.294.29.194.516.465.678.814h.068c.167-.338.419-.606.754-.805.335-.202.737-.303 1.206-.303.585 0 1.064.184 1.436.55.372.364.558.93.558 1.7v4.381h-1.005v-4.381c0-.483-.132-.828-.397-1.035a1.462 1.462 0 0 0-.933-.311c-.46 0-.817.139-1.069.417-.253.276-.38.625-.38 1.049v4.261h-1.022v-4.483c0-.372-.121-.672-.363-.899-.241-.23-.552-.345-.933-.345-.261 0-.506.069-.733.209a1.576 1.576 0 0 0-.545.579 1.704 1.704 0 0 0-.205.848v4.091h-1.005z"
         fill="#242437"
       />
-      <rect x={64} y={126} width={55} height={5} rx={2.5} fill="#E1E1FF" />
+      <rect x={64} y={126} width={55} height={5} rx={2.5} fill="#E6E9FC" />
     </g>
     <defs>
       <filter

diff --git a/nextjs-client/modules/home/hero-section/right-frame.tsx b/nextjs-client/modules/home/hero-section/right-frame.tsx
@@ -91,7 +91,7 @@ export function RightFrame(props: ComponentProps<'svg'>) {
           <g clipPath="url(#clip2_131_1574)" stroke="#E6E6E6" strokeWidth={0.5}>
             <path d="M56 52h355M56 87h355M56 122h355M56 157h355M56 192h355" />
           </g>
-          <rect x={60} y={56} width={347} height={62} rx={4} fill="#ECECFF" />
+          <rect x={60} y={56} width={347} height={62} rx={4} fill="#E9F3FF" />
           <path
             d="M80.92 86.489l1.364 1.56 1.836 1.173.32-2.723-.32-2.662-1.87 1.03-1.33 1.622z"
             fill="#00832D"
@@ -120,7 +120,7 @@ export function RightFrame(props: ComponentProps<'svg'>) {
           />
           <path
             d="M60 130a4 4 0 0 1 4-4h339a4 4 0 0 1 4 4v19a4 4 0 0 1-4 4H64a4 4 0 0 1-4-4v-19z"
-            fill="#ECECFF"
+            fill="#E9F3FF"
           />
           <g clipPath="url(#clip3_131_1574)">
             <path
@@ -179,7 +179,7 @@ export function RightFrame(props: ComponentProps<'svg'>) {
           <g clipPath="url(#clip5_131_1574)" stroke="#E6E6E6" strokeWidth={0.5}>
             <path d="M56 192h380M56 227h380M56 262h380M56 297h380M56 332h380" />
           </g>
-          <rect x={60} y={196} width={347} height={62} rx={4} fill="#ECECFF" />
+          <rect x={60} y={196} width={347} height={62} rx={4} fill="#E9F3FF" />
           <path
             d="M74 224.333l4.002-4h7.33a.67.67 0 0 1 .668.662v12.01a.662.662 0 0 1-.662.662H74.662a.667.667 0 0 1-.662-.672v-8.662zm4.667-3L75 225h3.667v-3.667z"
             fill="#000"
@@ -214,7 +214,7 @@ export function RightFrame(props: ComponentProps<'svg'>) {
           />
           <path
             d="M60 270a4 4 0 0 1 4-4h339a4 4 0 0 1 4 4v19a4 4 0 0 1-4 4H64a4 4 0 0 1-4-4v-19z"
-            fill="#ECECFF"
+            fill="#E9F3FF"
           />
           <path
             d="M74 276.833l4.002-4h7.33a.67.67 0 0 1 .668.662v12.01a.662.662 0 0 1-.662.662H74.662a.667.667 0 0 1-.662-.672v-8.662zm4.667-3L75 277.5h3.667v-3.667z"
@@ -292,7 +292,7 @@ export function RightFrame(props: ComponentProps<'svg'>) {
           </g>
           <path
             d="M60 340a4 4 0 0 1 4-4h339a4 4 0 0 1 4 4v19a4 4 0 0 1-4 4H64a4 4 0 0 1-4-4v-19z"
-            fill="#ECECFF"
+            fill="#E9F3FF"
           />
           <path
             d="M74 346.833l4.002-4h7.33a.67.67 0 0 1 .668.662v12.01a.662.662 0 0 1-.662.662H74.662a.667.667 0 0 1-.662-.672v-8.662zm4.667-3L75 347.5h3.667v-3.667z"
@@ -328,7 +328,7 @@ export function RightFrame(props: ComponentProps<'svg'>) {
           />
           <path
             d="M60 375a4 4 0 0 1 4-4h339a4 4 0 0 1 4 4v19a4 4 0 0 1-4 4H64a4 4 0 0 1-4-4v-19z"
-            fill="#ECECFF"
+            fill="#E9F3FF"
           />
           <path
             d="M74 381.833l4.002-4h7.33a.67.67 0 0 1 .668.662v12.01a.662.662 0 0 1-.662.662H74.662a.667.667 0 0 1-.662-.672v-8.662zm4.667-3L75 382.5h3.667v-3.667z"

diff --git a/nextjs-client/modules/home/features-section/index.tsx b/nextjs-client/modules/home/features-section/index.tsx
@@ -10,7 +10,8 @@ import { ScrollPreventAnimation } from './scroll-prevent-animation';
 const cardClassnames = cn(
   'pt-10 tablet:pt-16 desktop:pt-[54px]',
   'bg-zinc-50 rounded-2xl overflow-hidden',
-  'border-[0.5px] border-neutral-300'
+  'border-[0.5px] border-neutral-300',
+  'flex flex-col'
 );
 
 export function FeaturesSection({ className, ...props }: ComponentProps<'section'>) {
@@ -36,7 +37,7 @@ export function FeaturesSection({ className, ...props }: ComponentProps<'section
         )}
       >
         <li className={cardClassnames}>
-          <div className="px-6 tablet:px-8">
+          <div className="px-6 tablet:px-8 grow">
             <h4 className="tracking-[-0.03em] font-semibold text-xl tablet:text-2xl">
               Calendar AI or manual tracking
             </h4>
@@ -50,7 +51,7 @@ export function FeaturesSection({ className, ...props }: ComponentProps<'section
         </li>
 
         <li className={cardClassnames}>
-          <div className="px-6 tablet:px-8">
+          <div className="px-6 tablet:px-8 grow">
             <h4 className="tracking-[-0.03em] font-semibold text-xl tablet:text-2xl">
               Smart nudges
             </h4>
@@ -63,7 +64,7 @@ export function FeaturesSection({ className, ...props }: ComponentProps<'section
         </li>
 
         <li className={cardClassnames}>
-          <div className="px-6 tablet:px-8">
+          <div className="px-6 tablet:px-8 grow">
             <h4 className="tracking-[-0.03em] font-semibold text-xl tablet:text-2xl">
               Mobile tracking
             </h4>
@@ -75,8 +76,8 @@ export function FeaturesSection({ className, ...props }: ComponentProps<'section
           <Image src={mobileTrackingPng} alt="Mobile tracking" />
         </li>
 
-        <li className={cn(cardClassnames, 'flex flex-col')}>
-          <div className="px-6 tablet:px-8">
+        <li className={cardClassnames}>
+          <div className="px-6 tablet:px-8 grow">
             <h4 className="tracking-[-0.03em] font-semibold text-xl tablet:text-2xl">
               Doom scroll prevention
             </h4>

diff --git a/nextjs-client/modules/home/showcase-section/time-frame.tsx b/nextjs-client/modules/home/showcase-section/time-frame.tsx
@@ -81,7 +81,7 @@ export const TimeFrame = (props: React.SVGProps<SVGSVGElement>) => (
           fill="#242437"
         />
         <path stroke="#E6E6E6" strokeWidth={0.5} d="M0 99h77.143v222H0z" />
-        <rect x={16} y={283} width={18.571} height={26} rx={4} fill="#E1E1FF" />
+        <rect x={16} y={283} width={18.571} height={26} rx={4} fill="#E9F3FF" />
         <rect
           opacity={0.4}
           x={42.572}
@@ -119,7 +119,7 @@ export const TimeFrame = (props: React.SVGProps<SVGSVGElement>) => (
           width={18.571}
           height={60}
           rx={4}
-          fill="#E1E1FF"
+          fill="#E9F3FF"
         />
         <rect
           opacity={0.4}
@@ -166,7 +166,7 @@ export const TimeFrame = (props: React.SVGProps<SVGSVGElement>) => (
           width={18.571}
           height={99}
           rx={4}
-          fill="#E1E1FF"
+          fill="#E9F3FF"
         />
         <rect
           opacity={0.4}
@@ -213,7 +213,7 @@ export const TimeFrame = (props: React.SVGProps<SVGSVGElement>) => (
           width={18.571}
           height={125}
           rx={4}
-          fill="#E1E1FF"
+          fill="#E9F3FF"
         />
         <rect
           opacity={0.4}
@@ -260,7 +260,7 @@ export const TimeFrame = (props: React.SVGProps<SVGSVGElement>) => (
           width={18.571}
           height={180}
           rx={4}
-          fill="#E1E1FF"
+          fill="#E9F3FF"
         />
         <rect
           opacity={0.4}
@@ -307,7 +307,7 @@ export const TimeFrame = (props: React.SVGProps<SVGSVGElement>) => (
           width={18.571}
           height={44}
           rx={4}
-          fill="#E1E1FF"
+          fill="#E9F3FF"
         />
         <rect
           opacity={0.4}
@@ -354,7 +354,7 @@ export const TimeFrame = (props: React.SVGProps<SVGSVGElement>) => (
           width={18.571}
           height={35}
           rx={4}
-          fill="#E1E1FF"
+          fill="#E9F3FF"
         />
         <rect
           opacity={0.4}
